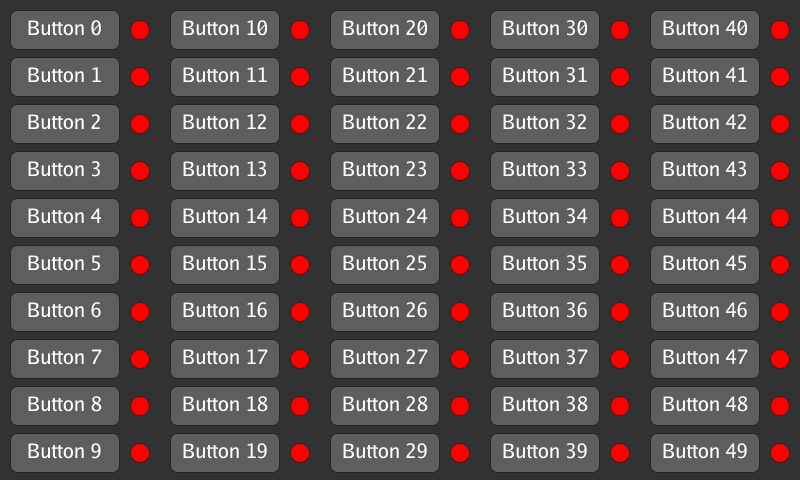
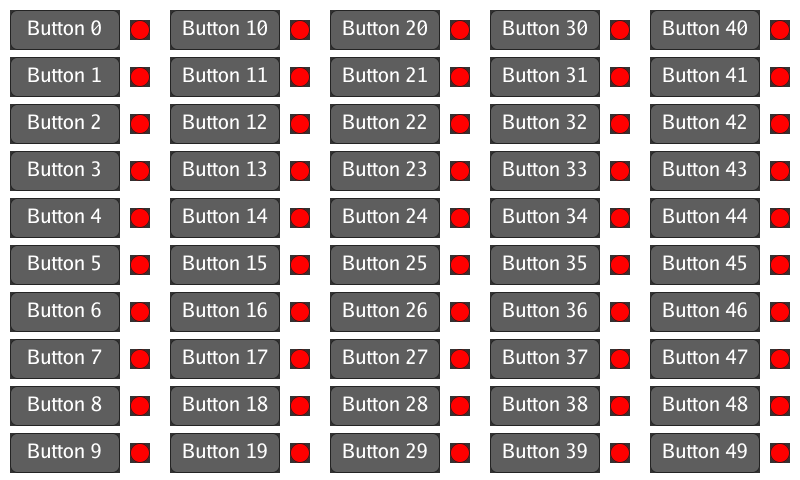
У виджетов можно установить цвет background

diff --git a/sgui.go b/sgui.go
@@ -9,9 +9,9 @@ import (
 )
 
 type Canvas struct {
-	display    *image.RGBA //
-	buff       *image.RGBA
-	background *image.RGBA
+	display          *image.RGBA //
+	background       *image.RGBA
+	backgroundRefill bool
 
 	objects     []Object // виджеты и их положение на дисплее
 	inputDevice IInput   // Устройство ввода
@@ -37,13 +37,10 @@ type IWidget interface {
 }
 
 func New(display *image.RGBA, input IInput) (Canvas, error) {
-
-	buff := image.NewRGBA(display.Rect)
-
 	return Canvas{
-		display:     display,
-		inputDevice: input,
-		buff:        buff,
+		display:          display,
+		inputDevice:      input,
+		backgroundRefill: true,
 	}, nil
 }
 
@@ -117,8 +114,6 @@ func (ths *Canvas) TapHandler(event IEvent) {
 			o.Widget.Tap()
 		}
 	}
-
-	ths.Render()
 }
 
 // Обработка отпускания нажатия
@@ -129,31 +124,31 @@ func (ths *Canvas) ReleaseHandler() {
 
 		o.Widget.Release()
 	}
-	ths.Render()
 }
 
 // Отрисовывает объекты на дисплей
 func (ths *Canvas) Render() {
 
 	// Сначала рисуем background
-	if ths.background != nil {
-		copy(ths.buff.Pix, ths.background.Pix)
+	if ths.background != nil && ths.backgroundRefill {
+		copy(ths.display.Pix, ths.background.Pix)
+		ths.backgroundRefill = false
 	}
 
 	// Отрисовка на дисплей объектов в порядке их добавления
 	for _, o := range ths.objects {
 		// Если изображение виджета не менялось,
 		// то и перерисовывать его не нужно. Пропускаем этот виджет
-		if !o.Widget.Updated() {
+		// Если была отрисовка бэкграунда, то виджет нужно снова отрисовать
+		if !o.Widget.Updated() && !ths.backgroundRefill {
 			continue
 		}
 
 		draw.Draw(
-			ths.buff,
-			ths.buff.Bounds(),
+			ths.display,
+			ths.display.Bounds(),
 			o.Widget.Render(),
 			image.Point{o.Position.X, o.Position.Y},
 			draw.Over)
 	}
-	copy(ths.display.Pix, ths.buff.Pix)
 }

diff --git a/painter/painter.go b/painter/painter.go
@@ -15,6 +15,7 @@ const quarterCircleControl = 1 - 0.55228
 type Circle struct {
 	Radius      int
 	FillColor   color.Color
+	BackColor   color.Color
 	StrokeWidth float64
 	StrokeColor color.Color
 }
@@ -22,6 +23,7 @@ type Circle struct {
 type Rectangle struct {
 	Size         image.Point
 	FillColor    color.Color
+	BackColor    color.Color
 	CornerRadius float64
 	StrokeWidth  float64
 	StrokeColor  color.Color
@@ -35,6 +37,15 @@ func DrawCircle(c Circle) *image.RGBA {
 
 	mid := float64(c.Radius)
 	scanner := rasterx.NewScannerGV(size, size, img, img.Bounds())
+
+	if c.BackColor != nil {
+		// Заполняем фон
+		for x := 0; x < img.Rect.Dx(); x++ {
+			for y := 0; y < img.Rect.Dy(); y++ {
+				img.Set(x, y, c.BackColor)
+			}
+		}
+	}
 
 	if c.FillColor != nil {
 		// Рисуем основу
@@ -63,6 +74,15 @@ func DrawRectangle(r Rectangle) *image.RGBA {
 	img := image.NewRGBA(rect)
 
 	scanner := rasterx.NewScannerGV(r.Size.X, r.Size.Y, img, img.Bounds())
+
+	if r.BackColor != nil {
+		// Заполняем фон
+		for x := 0; x < img.Rect.Dx(); x++ {
+			for y := 0; y < img.Rect.Dy(); y++ {
+				img.Set(x, y, r.BackColor)
+			}
+		}
+	}
 
 	if r.FillColor != nil {
 		// Рисуем основу

diff --git a/widget/indicator.go b/widget/indicator.go
@@ -21,23 +21,29 @@ type BitIndicator struct {
 	size         int
 	currentState int // Текущее состояние
 	states       []bitIndicatorState
+	background   color.Color
 
 	// Флаг, что изображение изменилось.
 	// Сбрасывется после рендеринга
 	updated bool
 }
 
-func NewIndicator(size int) *BitIndicator {
+func NewIndicator(size int, background color.Color) *BitIndicator {
 	if size <= 0 {
 		size = 1
 	}
-	return &BitIndicator{size: size, updated: true}
+	return &BitIndicator{
+		size:       size,
+		updated:    true,
+		background: background,
+	}
 }
 
 func (w *BitIndicator) AddState(c color.Color) {
 	circle := painter.Circle{
 		Radius:      w.size / 2,
 		FillColor:   c,
+		BackColor:   w.background,
 		StrokeWidth: 1,
 		StrokeColor: color.RGBA{34, 34, 34, 255},
 	}

diff --git a/widget/button.go b/widget/button.go
@@ -34,7 +34,7 @@ type ButtonParam struct {
 	LabelSize float64
 }
 
-func NewButton(b ButtonParam) *Button {
+func NewButton(b ButtonParam, background color.Color) *Button {
 	if b.Size.X <= 0 {
 		b.Size.X = 1
 	}
@@ -50,6 +50,7 @@ func NewButton(b ButtonParam) *Button {
 		painter.Rectangle{
 			Size:         b.Size,
 			FillColor:    color.RGBA{94, 94, 94, 255},
+			BackColor:    background,
 			CornerRadius: 8,
 			StrokeWidth:  1,
 			StrokeColor:  color.RGBA{34, 34, 34, 255},
@@ -60,6 +61,7 @@ func NewButton(b ButtonParam) *Button {
 		painter.Rectangle{
 			Size:         b.Size,
 			FillColor:    color.RGBA{118, 118, 118, 255},
+			BackColor:    background,
 			CornerRadius: 8,
 			StrokeWidth:  1,
 			StrokeColor:  color.RGBA{34, 34, 34, 255},

diff --git a/samples/example/example.go b/samples/example/example.go
@@ -25,13 +25,14 @@ func main() {
 	if err != nil {
 		panic(err)
 	}
-	gui.SetBackground(color.RGBA{50, 50, 50, 255})
+	backcolor := color.RGBA{50, 50, 50, 255}
+	//gui.SetBackground(backcolor)
 
 	for i := 0; i < 5; i++ {
 		for n := 0; n < 10; n++ {
 			// Создаем виджеты
 
-			ind := widget.NewIndicator(20)
+			ind := widget.NewIndicator(20, backcolor)
 			ind.AddState(color.RGBA{255, 0, 0, 255})
 			ind.AddState(color.RGBA{0, 255, 0, 255})
 
@@ -46,7 +47,8 @@ func main() {
 				},
 				Label:     fmt.Sprintf("Button %v", n+(i*10)),
 				LabelSize: 20,
-			})
+			},
+				backcolor)
 
 			// Добавляем виджеты
 			gui.AddWidget(10+i*160, 10+(n*47), button)

diff --git a/widget/widget_test.go b/widget/widget_test.go
@@ -18,7 +18,7 @@ func TestDrawCircle(t *testing.T) {
 	for _, tt := range tests {
 		t.Run(tt.name, func(t *testing.T) {
 
-			indicator := NewIndicator(tt.radius)
+			indicator := NewIndicator(tt.radius, nil)
 			img := indicator.Render()
 
 			fname := fmt.Sprintf("%s.png", tt.name)
